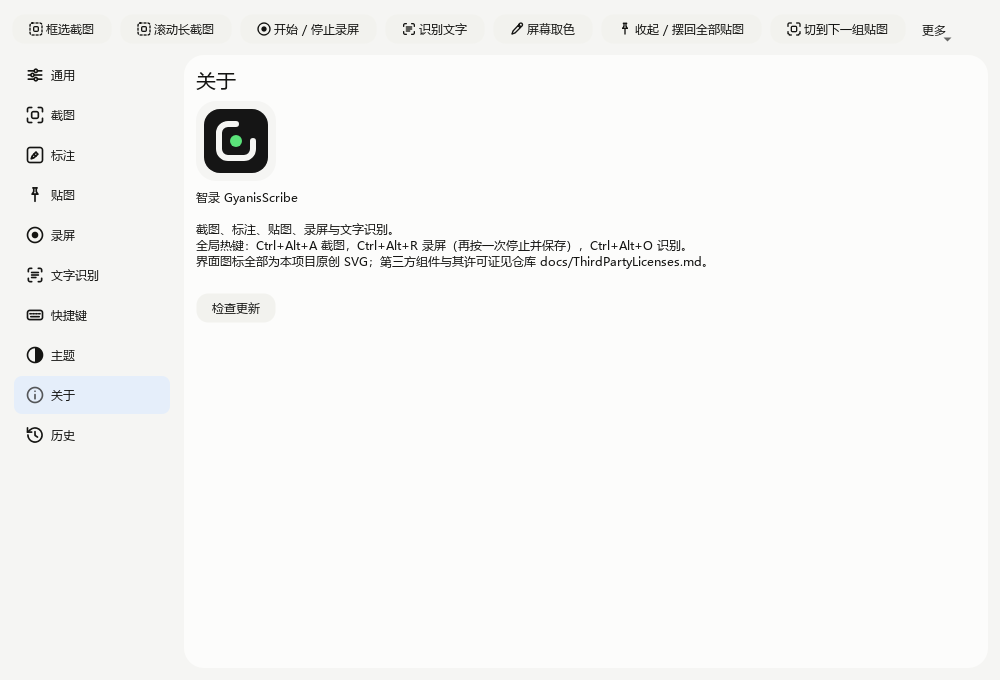
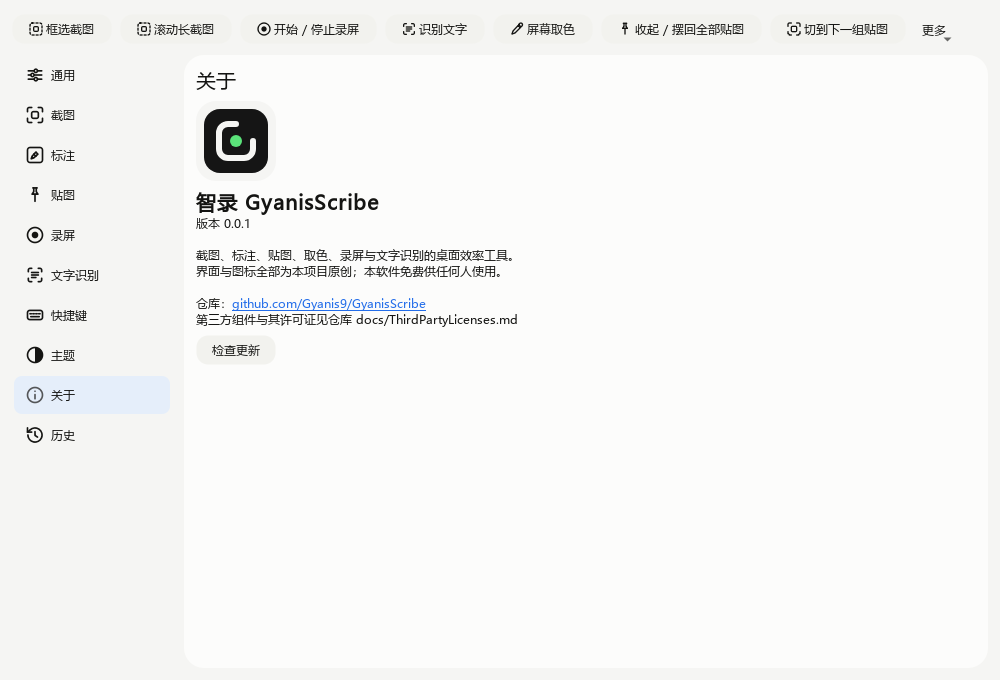
feat(Main): 关于页改标准 About 排版
正文从一段纯文本改为富文本分块：品牌砖之下产品名与版本各占一行，
接一句定位与原创、免费声明，再给仓库链接与第三方许可指向；
「检查更新」按钮与状态行原样保留，版本仍只从 applicationVersion 传入。
仓库链接接 linkActivated 走系统浏览器；标签设 NoFocus——
键盘档链接导航会把 Tab 吞进文档让焦点链卡死（Tab 走查用例当场红），
地址本身以明文摆着，选中复制与鼠标点击都不受影响。
翻译目录重生成，885 条文案全有译文。

Changed region(s): [[0.186, 0.2779, 0.713, 0.525]]

diff --git a/translations/GyanisScribe_en.ts b/translations/GyanisScribe_en.ts
@@ -1800,12 +1800,12 @@
             <translation>Decrease</translation>
         </message>
         <message>
-            <source>提示</source>
-            <translation>Notice</translation>
-        </message>
-        <message>
             <source>提示图标</source>
             <translation>Notice icon</translation>
+        </message>
+        <message>
+            <source>提示</source>
+            <translation>Notice</translation>
         </message>
         <message>
             <source>今天 </source>
@@ -2692,8 +2692,8 @@
             <translation>GIF runs a two-pass palette and caps the frame rate at %1 frames per second, lower than MP4; MP4 suits longer clips. Changes apply from the next recording</translation>
         </message>
         <message>
-            <source>智录 GyanisScribe %1\n\n截图、标注、贴图、录屏与文字识别。\n全局热键：Ctrl+Alt+A 截图，Ctrl+Alt+R 录屏（再按一次停止并保存），Ctrl+Alt+O 识别。\n界面图标全部为本项目原创 SVG；第三方组件与其许可证见仓库 docs/ThirdPartyLicenses.md。\n</source>
-            <translation>GyanisScribe %1\n\nScreenshot, annotation, pin, screen recording and text recognition.\nGlobal hotkeys: Ctrl+Alt+A capture, Ctrl+Alt+R record (press again to stop and save), Ctrl+Alt+O recognize.\nAll UI icons are original SVG artwork made for this project; third-party components and their licenses are listed in docs/ThirdPartyLicenses.md in the repository.\n</translation>
+            <source>&lt;b style="font-size:15pt"&gt;智录 GyanisScribe&lt;/b&gt;&lt;br&gt;版本 %1&lt;br&gt;&lt;br&gt;截图、标注、贴图、取色、录屏与文字识别的桌面效率工具。&lt;br&gt;界面与图标全部为本项目原创；本软件免费供任何人使用。&lt;br&gt;&lt;br&gt;仓库：&lt;a href="https://github.com/Gyanis9/GyanisScribe"&gt;github.com/Gyanis9/GyanisScribe&lt;/a&gt;&lt;br&gt;第三方组件与其许可证见仓库 docs/ThirdPartyLicenses.md</source>
+            <translation>&lt;b style="font-size:15pt"&gt;GyanisScribe&lt;/b&gt;&lt;br&gt;Version %1&lt;br&gt;&lt;br&gt;A desktop productivity tool for screenshots, annotation, pinning, color picking, screen recording and text recognition.&lt;br&gt;The UI and icons are entirely original to this project; the software is free for anyone to use.&lt;br&gt;&lt;br&gt;Repository: &lt;a href="https://github.com/Gyanis9/GyanisScribe"&gt;github.com/Gyanis9/GyanisScribe&lt;/a&gt;&lt;br&gt;Third-party components and their licenses: see docs/ThirdPartyLicenses.md in the repository</translation>
         </message>
         <message>
             <source>智录 设置</source>

diff --git a/src/Main/MainWindow.cpp b/src/Main/MainWindow.cpp
@@ -1410,9 +1410,16 @@ namespace GyanisScribe::Main
     QString aboutText(const QString &version)
     {
         // 版本号由调用方从 QApplication::applicationVersion() 传进来：真源只有一处。
-        // 整段是一条字面量：翻译目录按整段查，拆成相邻字面量会让目录里只收到第一片
-        return GyanisScribe::Base::uiText("智录 GyanisScribe %1\n\n截图、标注、贴图、录屏与文字识别。\n全局热键：Ctrl+Alt+A 截图，Ctrl+Alt+R "
-                                          "录屏（再按一次停止并保存），Ctrl+Alt+O 识别。\n界面图标全部为本项目原创 SVG；第三方组件与其许可证见仓库 docs/ThirdPartyLicenses.md。\n")
+        // 整段是一条字面量：翻译目录按整段查，拆成相邻字面量会让目录里只收到第一片。
+        // 正文是富文本：产品名与版本各占一行，链接由显示它的标签接 linkActivated 打开
+        return GyanisScribe::Base::uiText("<b style=\"font-size:15pt\">智录 GyanisScribe</b><br>"
+                                          "版本 %1<br>"
+                                          "<br>"
+                                          "截图、标注、贴图、取色、录屏与文字识别的桌面效率工具。<br>"
+                                          "界面与图标全部为本项目原创；本软件免费供任何人使用。<br>"
+                                          "<br>"
+                                          "仓库：<a href=\"https://github.com/Gyanis9/GyanisScribe\">github.com/Gyanis9/GyanisScribe</a><br>"
+                                          "第三方组件与其许可证见仓库 docs/ThirdPartyLicenses.md")
                 .arg(version);
     }
 
@@ -2537,7 +2544,12 @@ namespace GyanisScribe::Main
         auto *text = new QLabel{aboutText(QApplication::applicationVersion()), page};
         text->setAccessibleName(GyanisScribe::Base::uiText("关于智录"));
         text->setWordWrap(true);
-        text->setTextInteractionFlags(Qt::TextSelectableByMouse);
+        // 富文本里的仓库链接要可点也可选中复制：链接不直接开，交给 linkActivated 走系统浏览器。
+        // 焦点链不收这一格：键盘档链接导航会把 Tab 吞进文档里（焦点停在标签上不走），
+        // 而地址本身以明文摆着、选中复制与鼠标点击都不受影响
+        text->setTextInteractionFlags(Qt::TextBrowserInteraction);
+        text->setFocusPolicy(Qt::NoFocus);
+        QObject::connect(text, &QLabel::linkActivated, text, [](const QString &link) { QDesktopServices::openUrl(QUrl{link}); });
 
         // 检查更新：只查不换——下载与替换可执行体要先有签名与原子替换那一套，
         // 这里把「有没有新版」与发布页地址摆出来，下载交给用户自己在浏览器里点

diff --git a/src/Main/MainWindow.h b/src/Main/MainWindow.h
@@ -178,9 +178,10 @@ namespace GyanisScribe::Main
     /**
      * @brief 关于页正文
      * @param version 应用版本
-     * @return 一段可以直接显示的文本
+     * @return 一段可以直接显示的富文本（Qt Rich Text）
      * @details 版本号只从工程真源传进来，这里不写第二份字面量；
-     *          许可一句指向仓库里的第三方许可清单，避免在界面上抄一份会漂移的清单。
+     *          许可一句指向仓库里的第三方许可清单，避免在界面上抄一份会漂移的清单；
+     *          仓库链接由显示方接 linkActivated 打开，正文里只放地址。
      */
     [[nodiscard]] QString aboutText(const QString &version);
 
